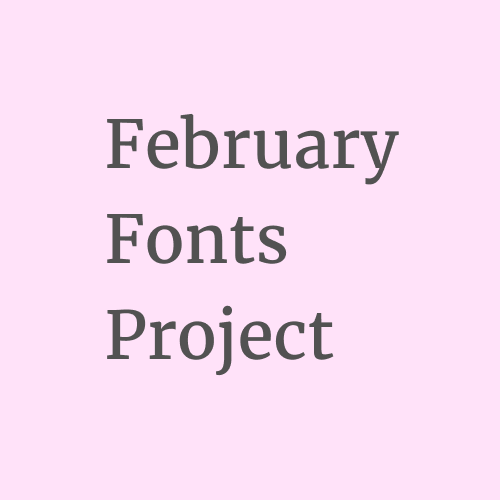
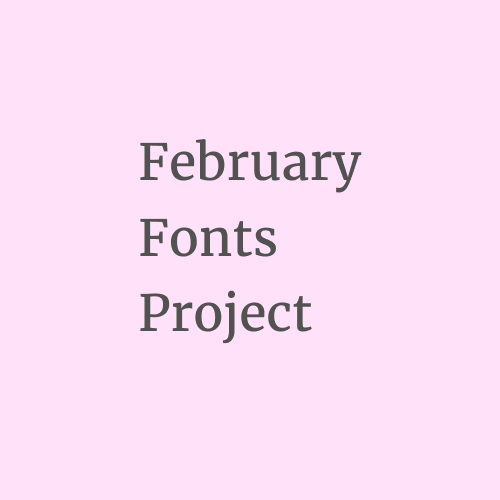
add Feb Fonts Feb 7

Changed region(s): [[0.21, 0.21, 0.81, 0.39], [0.21, 0.57, 0.66, 0.75], [0.21, 0.42, 0.57, 0.54]]

diff --git a/febfonts.html b/febfonts.html
@@ -74,6 +74,9 @@
         <div class="feb-font-img bio-image">
           <img src="assets/Feb-6.png" alt="Feb-2">
         </div>
+        <div class="feb-font-img bio-image">
+          <img src="assets/Feb-7.png" alt="Feb-2">
+        </div>
       </section>
     </div>
 
